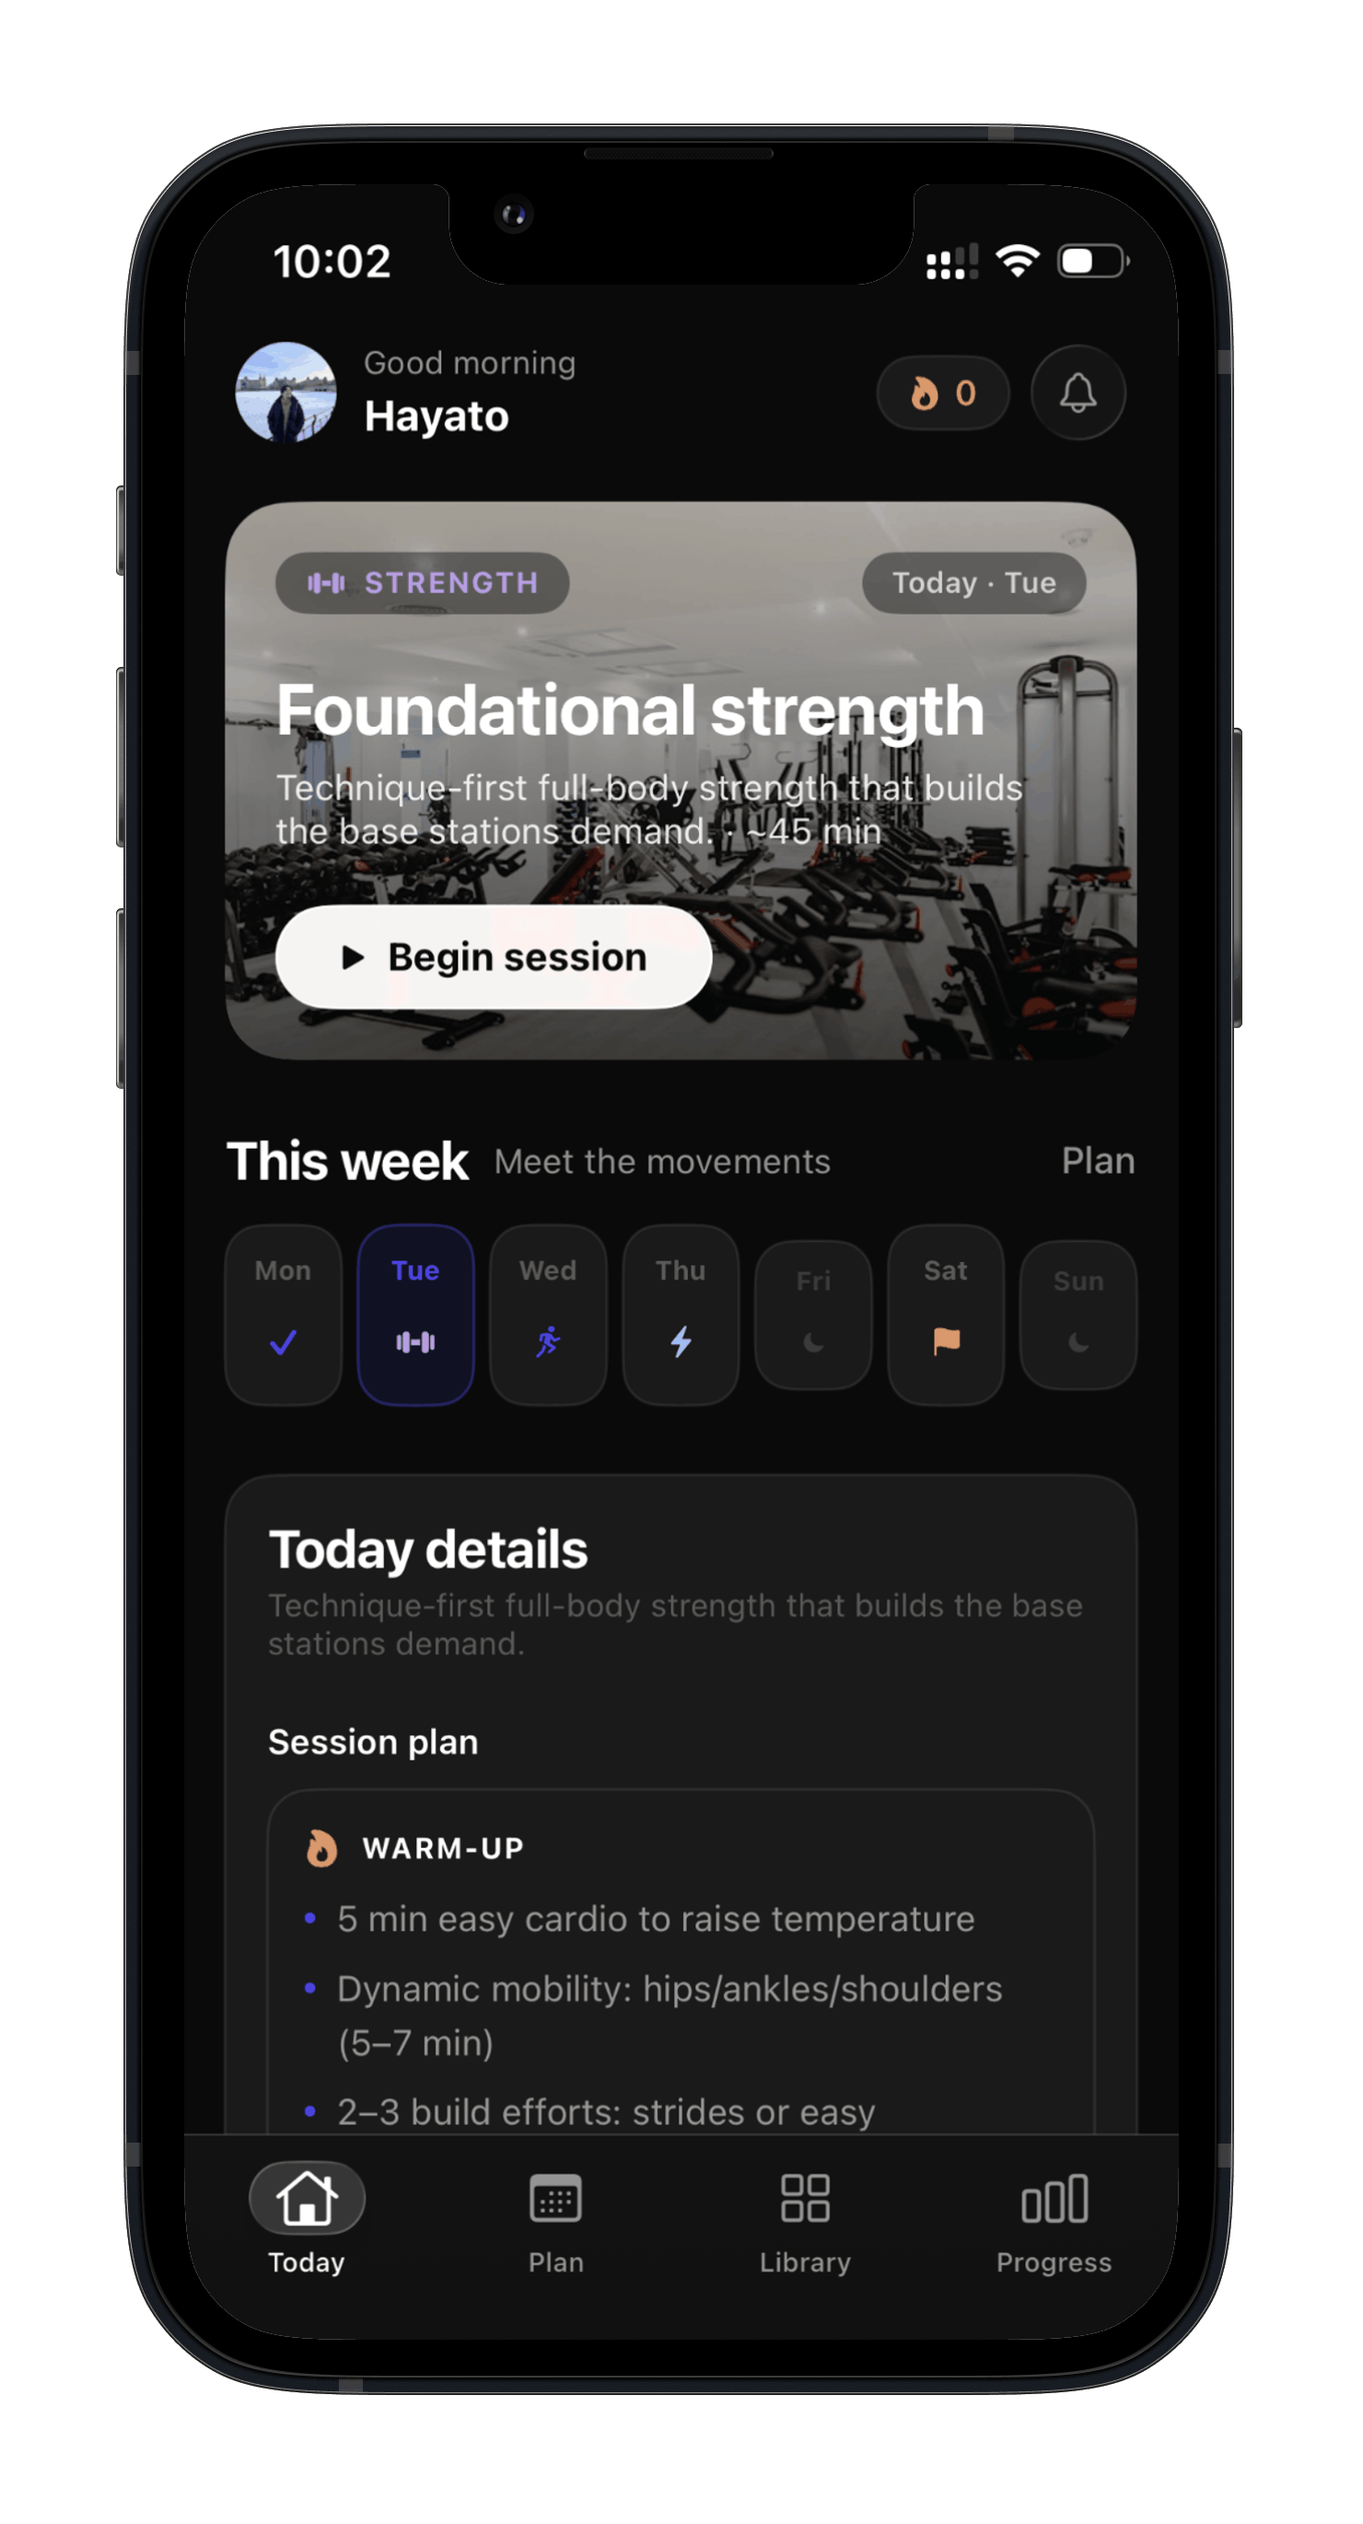
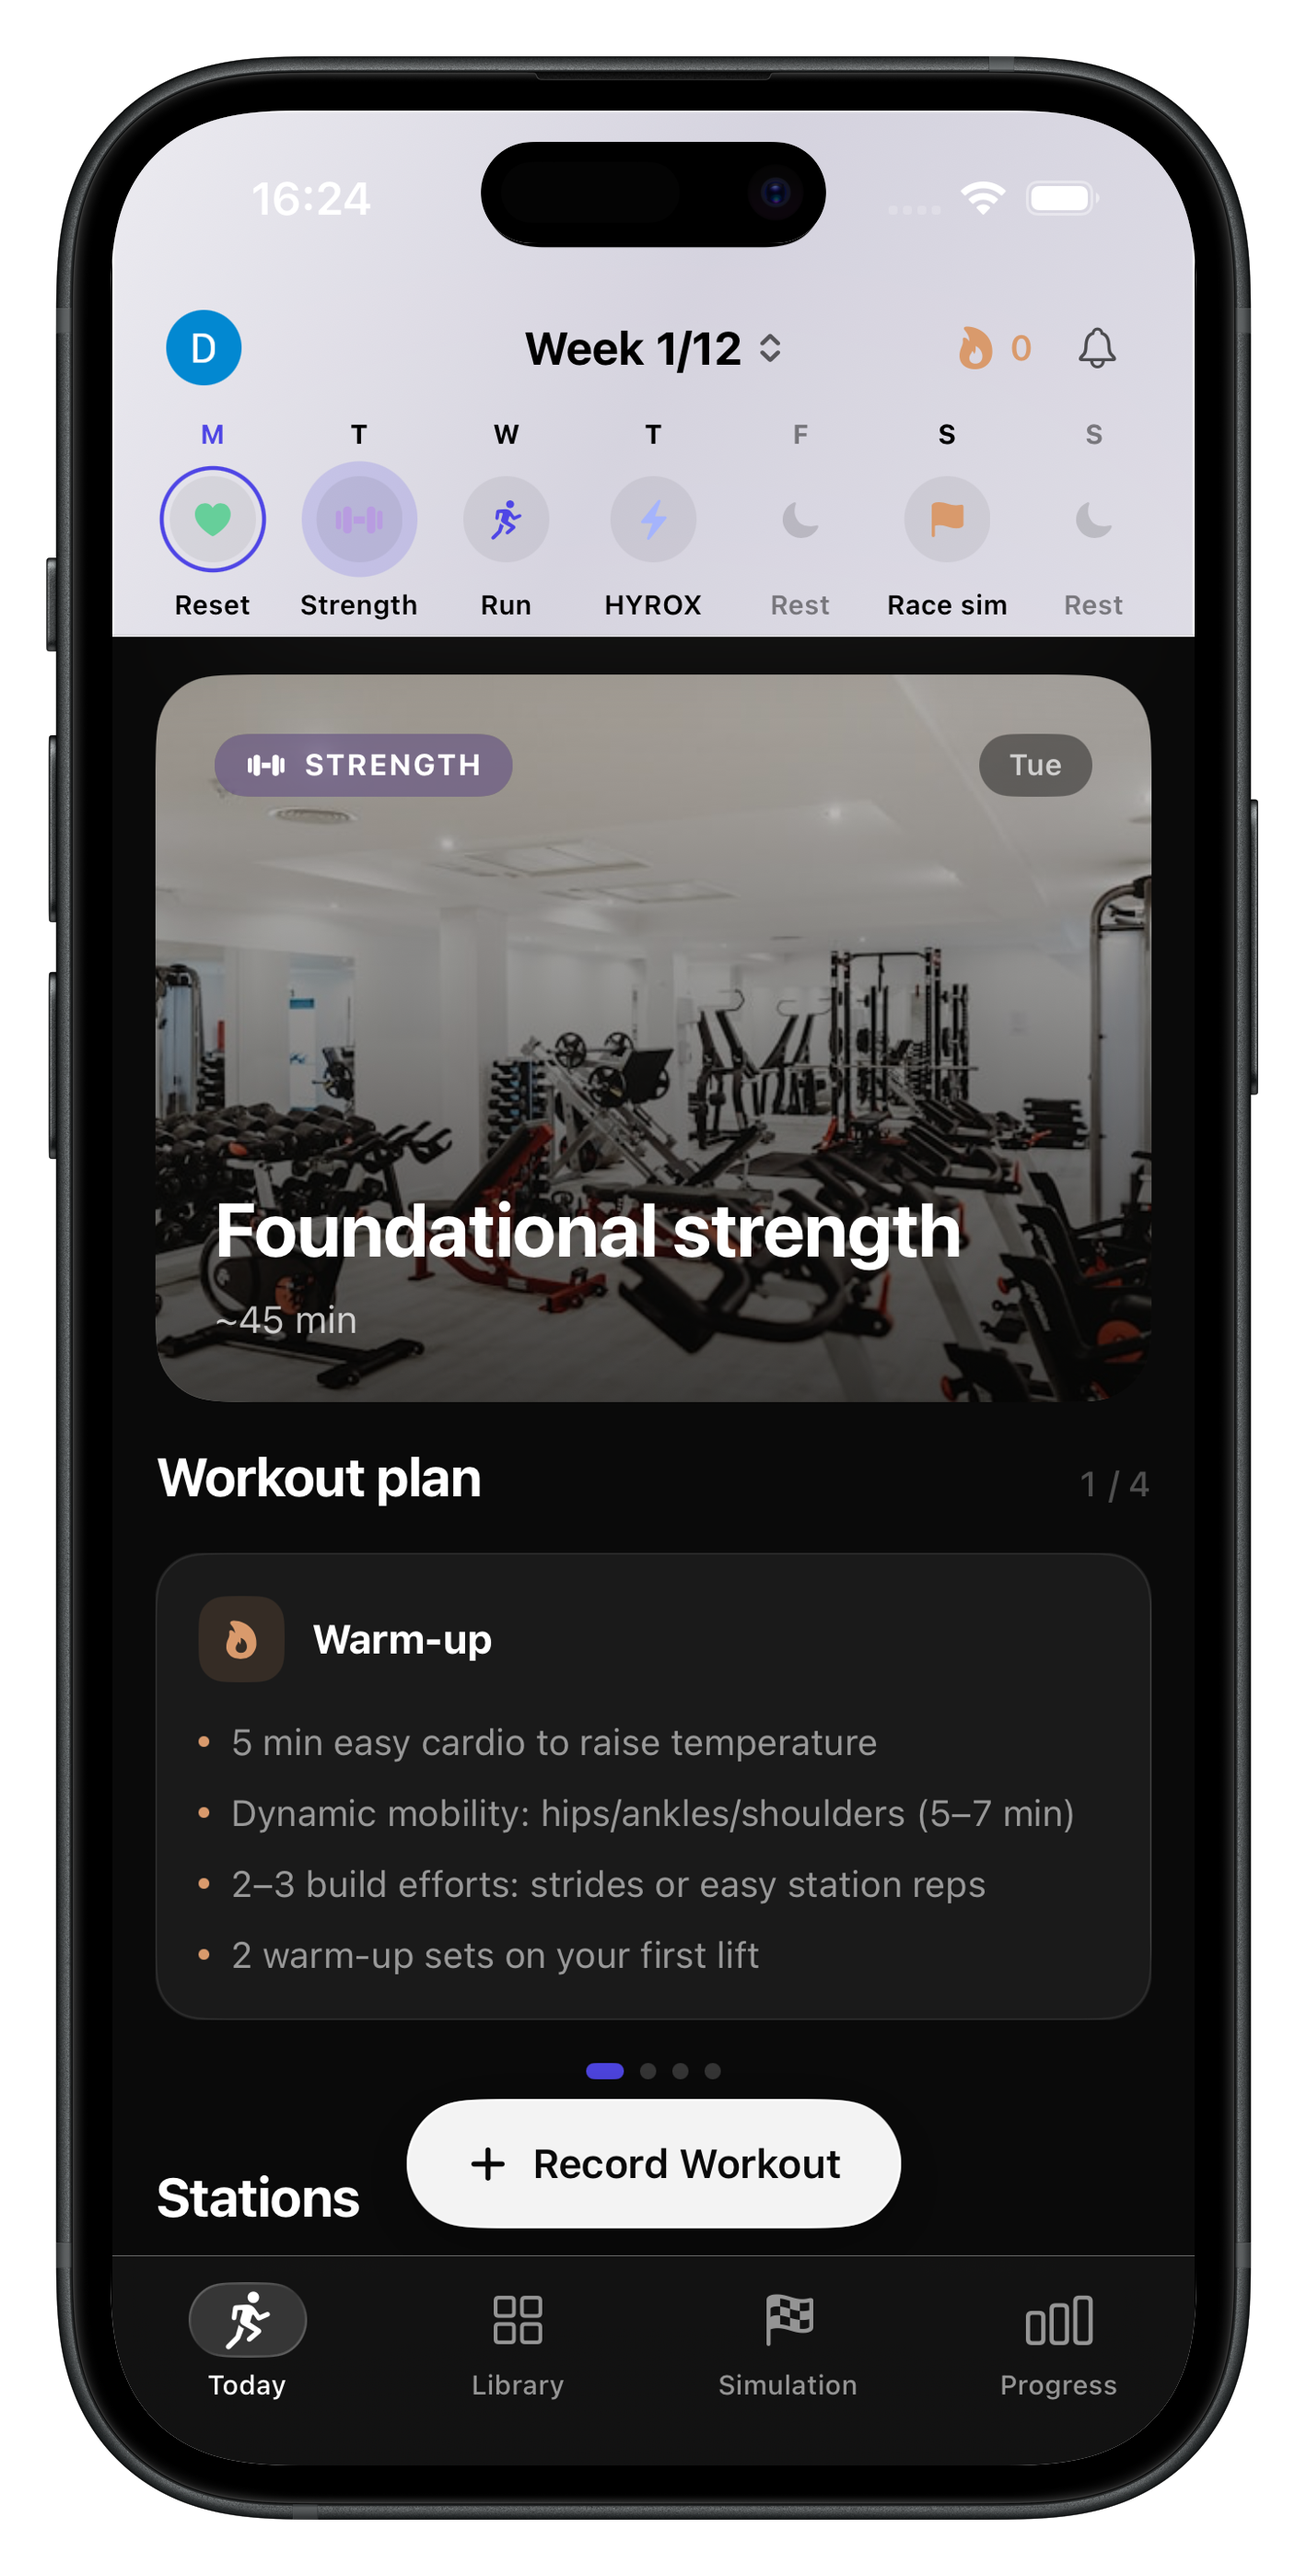
chore: new images

diff --git a/src/routes/index.tsx b/src/routes/index.tsx
@@ -33,7 +33,9 @@ import mockupSkills from '@/assets/mockup-skills.png';
 import mockupPlan from '@/assets/mockup-plan.png';
 import mockupProgress from '@/assets/mockup-progress.png';
 import mockupLog from '@/assets/mockup-log.png';
-import mockupSim from '@/assets/mockup-simulation.png';
+import mockupSim1 from '@/assets/mockup-simulation-1.png';
+import mockupSim2 from '@/assets/mockup-simulation-2.png';
+import mockupSim3 from '@/assets/mockup-simulation-3.png';
 import heroPhoto from '@/assets/hyrox.jpg';
 
 export const Route = createFileRoute('/')({
@@ -533,18 +535,35 @@ function PacingSection() {
   return (
     <section id="pacing" className="paper-section relative py-24 md:py-36">
       <div className="container-x">
-        <div className="grid gap-12 lg:grid-cols-2 lg:items-start">
-          <SectionHeader
-            eyebrow="Smarter race pacing"
-            title={<>Stop sprinting kilometre one.</>}
-            body="Know your target pace for every run and every station before the race starts, so you finish strong instead of fading in the back half."
-          />
-          <Reveal delay={0.15} className="flex justify-center lg:justify-end">
+        <SectionHeader
+          eyebrow="Smarter race pacing"
+          title={<>Stop sprinting kilometre one.</>}
+          body="Know your target pace for every run and every station before the race starts, so you finish strong instead of fading in the back half."
+          align="center"
+        />
+
+        <div className="mt-16 flex flex-wrap items-end justify-center gap-6 md:gap-10">
+          <Reveal delay={0.1}>
             <PhoneMockup
-              src={mockupSim}
-              alt="Race simulation with live pacing guidance"
-              className="max-w-[260px]"
+              src={mockupSim1}
+              alt="Race simulation overview with target pace"
+              className="max-w-[230px]"
               tilt="left"
+            />
+          </Reveal>
+          <Reveal delay={0.2} className="md:mb-10">
+            <PhoneMockup
+              src={mockupSim2}
+              alt="Live race simulation with station pacing"
+              className="max-w-[230px]"
+            />
+          </Reveal>
+          <Reveal delay={0.3}>
+            <PhoneMockup
+              src={mockupSim3}
+              alt="Race simulation results and splits"
+              className="max-w-[230px]"
+              tilt="right"
             />
           </Reveal>
         </div>
